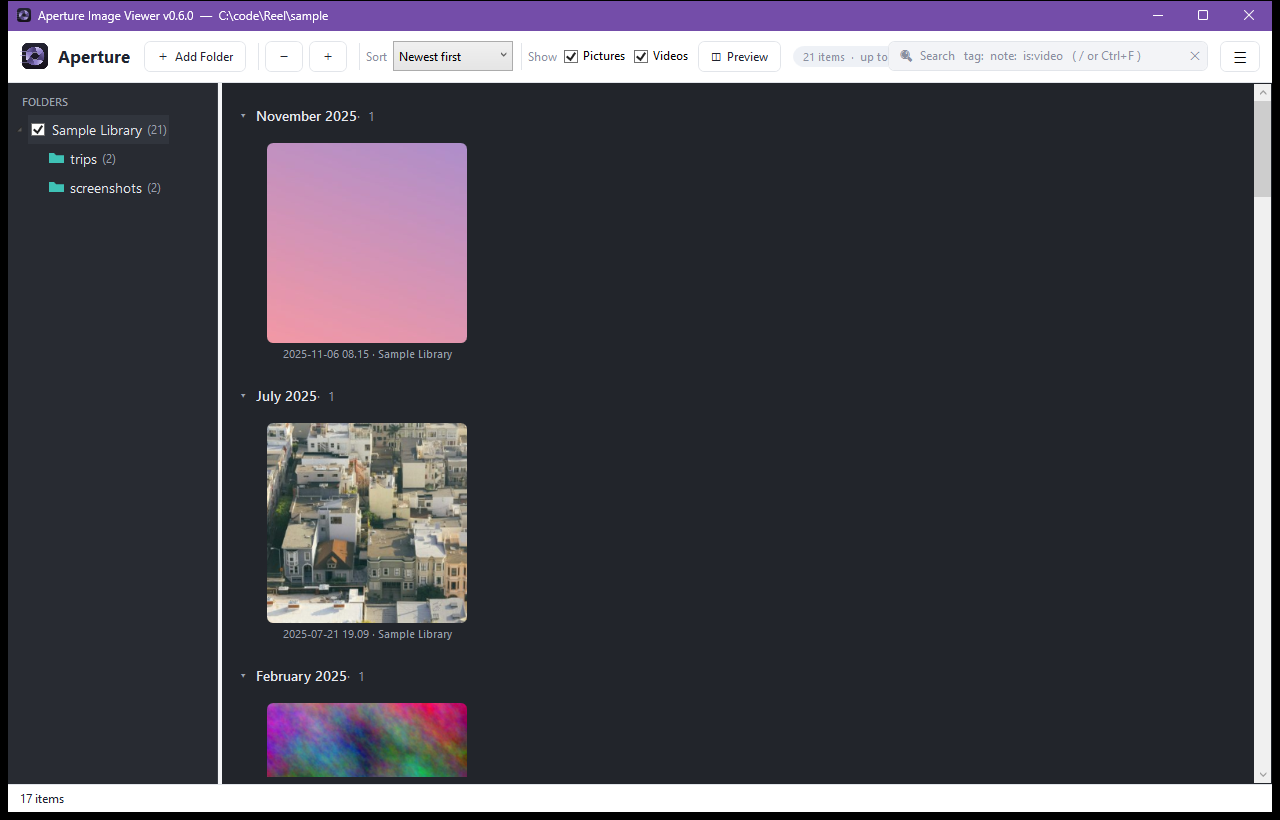
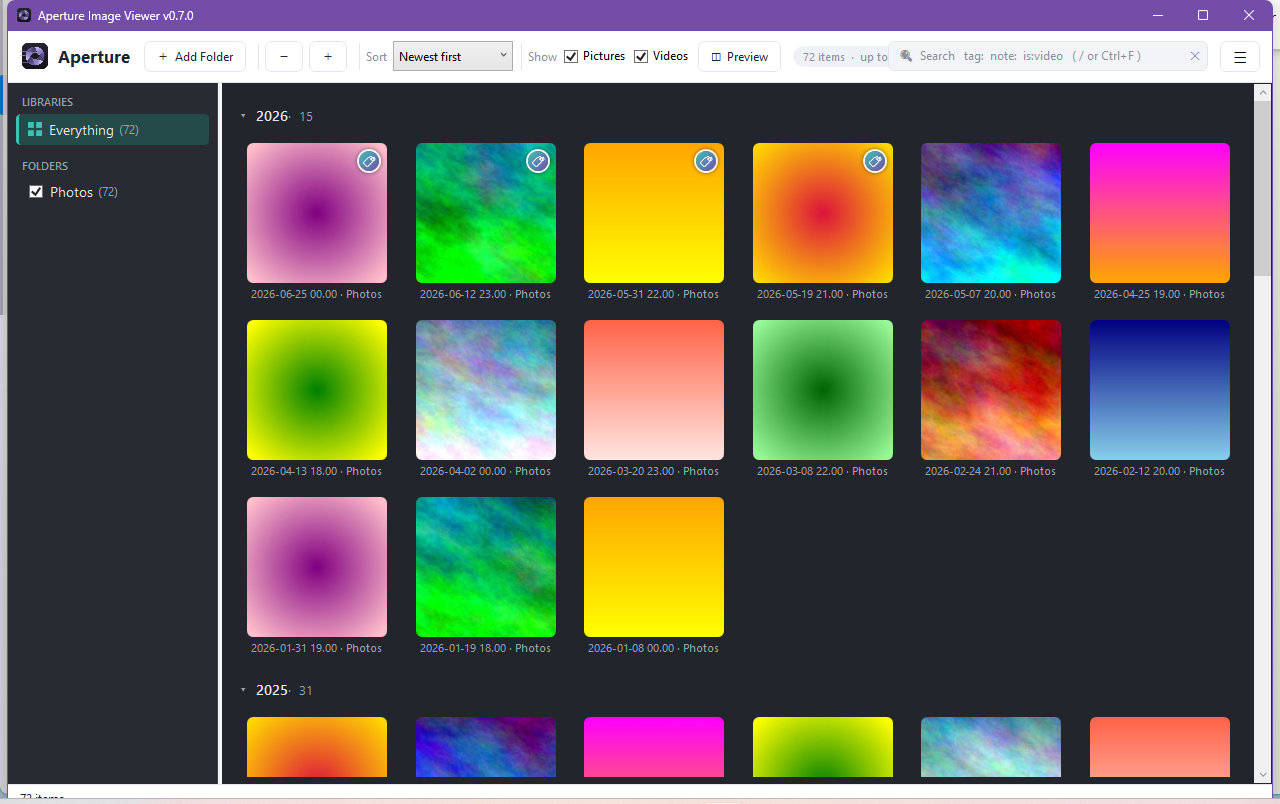
Instant startup: on-demand thumbnail regen, deferred reconcile, grid-first; denser README screenshot
The recent startup work regressed the app's instant-startup feel on a large, partially-
stale cache: the loading spinner sat frozen and tiles were blank for ~15s. Causes and fixes:

- Blank tiles: the src-mtime guard (correctly) withholds stale cached thumbnails, but they
  were only regenerated by the background reconcile in disk-scan order — so the visible
  (newest) tiles healed last. Now a tile whose cached thumb is missing/stale regenerates
  from its source ON DEMAND at display time (LibraryService.GetOrCreateThumbnail +
  ThumbnailStore.Put), so on-screen tiles paint immediately and the cache heals as you look.
  This also produces the correct image for a realigned cache (regenerates from the item's
  own file), so it strengthens the earlier wrong-image fix rather than just blanking.

- Frozen spinner / delay: startup now builds and shows the GRID first (off-thread compute,
  spinner animates), drops the spinner as soon as tiles are up, and builds the folder tree
  afterward — the photos don't wait on the tree.

- Contention: the full 45k reconcile is deferred a couple of seconds so it doesn't starve
  the visible tiles' initial thumbnail loads.

- README screenshot: denser, date-grouped grid (72 tiles across sections) for a better showcase.

Verified in-app: with every cached thumbnail deliberately corrupted to stale, tiles still
render (regenerated on demand) instead of going blank. 90/90 tests (added a regen test).

diff --git a/src/Aperture.Core/Storage/ThumbnailStore.cs b/src/Aperture.Core/Storage/ThumbnailStore.cs
@@ -1,4 +1,5 @@
 using Microsoft.Data.Sqlite;
+using Aperture.Core.Media;
 using Aperture.Core.Models;
 
 namespace Aperture.Core.Storage;
@@ -7,6 +8,44 @@ namespace Aperture.Core.Storage;
 public sealed class ThumbnailStore(ApertureDatabase database)
 {
     private readonly ApertureDatabase _db = database;
+
+    /// <summary>
+    /// Upserts a freshly-generated thumbnail set for one item (used by on-demand regeneration when a
+    /// visible tile's cached thumbnail is missing or stale, so it needn't wait for the background reconcile).
+    /// </summary>
+    public void Put(long itemId, long srcMtimeTicks, ThumbnailSet set)
+    {
+        var now = DateTime.UtcNow.Ticks;
+        using var conn = _db.OpenThumbnails();
+        using var tx = conn.BeginTransaction();
+        using var cmd = conn.CreateCommand();
+        cmd.Transaction = tx;
+        cmd.CommandText = """
+            INSERT INTO thumbs (item_id, size, src_mtime_ticks, width, height, data, bytes, created_ticks, last_used_ticks)
+            VALUES (@item, @size, @src, @w, @h, @data, @bytes, @created, @used)
+            ON CONFLICT(item_id, size) DO UPDATE SET
+                src_mtime_ticks = excluded.src_mtime_ticks, width = excluded.width, height = excluded.height,
+                data = excluded.data, bytes = excluded.bytes, created_ticks = excluded.created_ticks,
+                last_used_ticks = excluded.last_used_ticks;
+            """;
+        var item = cmd.Parameters.Add("@item", SqliteType.Integer);
+        var size = cmd.Parameters.Add("@size", SqliteType.Integer);
+        var src = cmd.Parameters.Add("@src", SqliteType.Integer);
+        var w = cmd.Parameters.Add("@w", SqliteType.Integer);
+        var h = cmd.Parameters.Add("@h", SqliteType.Integer);
+        var data = cmd.Parameters.Add("@data", SqliteType.Blob);
+        var bytes = cmd.Parameters.Add("@bytes", SqliteType.Integer);
+        var created = cmd.Parameters.Add("@created", SqliteType.Integer);
+        var used = cmd.Parameters.Add("@used", SqliteType.Integer);
+        foreach (var (sz, d) in set.Thumbs)
+        {
+            item.Value = itemId; size.Value = (int)sz; src.Value = srcMtimeTicks;
+            w.Value = d.Width; h.Value = d.Height; data.Value = d.Bytes; bytes.Value = d.Bytes.Length;
+            created.Value = now; used.Value = now;
+            cmd.ExecuteNonQuery();
+        }
+        tx.Commit();
+    }
 
     /// <summary>
     /// Returns the encoded JPEG bytes for a thumbnail, or null if not cached. When

diff --git a/src/Aperture.App/ViewModels/MainViewModel.cs b/src/Aperture.App/ViewModels/MainViewModel.cs
@@ -114,9 +114,9 @@ public sealed class MainViewModel : ObservableObject, IDisposable
         if (generation != _buildGeneration)
             return; // a data-change rebuild already superseded startup
 
-        BuildTree();          // needs _allRows; builds the (UI-bound) tree nodes on the UI thread
-        SelectDefaultNode();
-
+        // Build the grid FIRST — it's the content the user came to see. The union read and the
+        // tile/section compute run off the UI thread; only ApplyView touches the UI, so the spinner
+        // animates for most of the wait and the tiles appear as soon as possible.
         var inputs = CaptureBuildInputs();
         ViewBuild build;
         try { build = await Task.Run(() => ComputeView(inputs)); }
@@ -125,7 +125,11 @@ public sealed class MainViewModel : ObservableObject, IDisposable
             return;
 
         ApplyView(build);
-        IsLoadingView = false;
+        IsLoadingView = false; // tiles are up — drop the spinner even though the tree is still to come
+
+        // The folder tree fills in afterward; it doesn't gate seeing the photos.
+        BuildTree();
+        SelectDefaultNode();
     }
 
     private void LoadAnnotations()
@@ -584,7 +588,7 @@ public sealed class MainViewModel : ObservableObject, IDisposable
         var isVideo = tile.IsVideo;
         var itemId = tile.ItemId;
         var mtime = tile.Item.MTimeUtc.Ticks;
-        var image = await Task.Run(() => isVideo ? DecodeThumbnail(itemId, mtime) : ImageLoading.LoadFullImageUpright(path, 2400));
+        var image = await Task.Run(() => isVideo ? DecodeThumbnail(itemId, path, mtime) : ImageLoading.LoadFullImageUpright(path, 2400));
         if (gen == _previewGen && _previewMode != PreviewMode.Off)
             PreviewImage = image;
     }
@@ -796,7 +800,7 @@ public sealed class MainViewModel : ObservableObject, IDisposable
         // Pics: the full-resolution image, EXIF-oriented like the tile/Photos.
         // Videos: the cached frame thumbnail.
         var image = tile.IsVideo
-            ? DecodeThumbnail(tile.ItemId, tile.Item.MTimeUtc.Ticks)
+            ? DecodeThumbnail(tile.ItemId, tile.FullPath, tile.Item.MTimeUtc.Ticks)
             : ImageLoading.LoadFullImageUpright(tile.FullPath);
         if (image is null)
             return;
@@ -1110,7 +1114,7 @@ public sealed class MainViewModel : ObservableObject, IDisposable
     private async void LoadQuickLook(int index, TileVm tile)
     {
         var image = await Task.Run(() => tile.IsVideo
-            ? DecodeThumbnail(tile.ItemId, tile.Item.MTimeUtc.Ticks)
+            ? DecodeThumbnail(tile.ItemId, tile.FullPath, tile.Item.MTimeUtc.Ticks)
             : ImageLoading.LoadFullImageUpright(tile.FullPath, maxLongestEdge: 1600));
 
         // Ignore if the user moved on while we decoded.
@@ -1118,15 +1122,19 @@ public sealed class MainViewModel : ObservableObject, IDisposable
             QuickLookImage = image;
     }
 
-    private System.Windows.Media.Imaging.BitmapSource? DecodeThumbnail(long itemId, long srcMtimeTicks)
+    private System.Windows.Media.Imaging.BitmapSource? DecodeThumbnail(long itemId, string path, long srcMtimeTicks)
     {
-        var bytes = _library.GetThumbnail(itemId, ThumbSize.Large, srcMtimeTicks);
+        var bytes = _library.GetOrCreateThumbnail(itemId, path, ThumbSize.Large, srcMtimeTicks, isVideo: true);
         return bytes is null ? null : ImageLoading.Decode(bytes, 0);
     }
 
     /// <summary>Kick a background reconcile of every root, then watch it. Cached rows are already on screen.</summary>
-    public void StartBackgroundRefresh()
+    public async void StartBackgroundRefresh()
     {
+        // Give the window a moment to paint and the on-screen tiles to load (or regenerate) their
+        // thumbnails before a full reconcile starts contending for disk + CPU. Without this, indexing
+        // tens of thousands of files immediately starves the visible tiles and they sit blank.
+        await Task.Delay(StartupReconcileDelayMs);
         foreach (var rootVm in Roots.ToList())
             _ = IndexRootAsync(rootVm.Model, watchAfter: true);
     }
@@ -1252,6 +1260,9 @@ public sealed class MainViewModel : ObservableObject, IDisposable
     // --- Union / sections / status ------------------------------------------
 
     private const int BuildDebounceMs = 140;
+
+    /// <summary>How long startup waits before the first full reconcile, so visible thumbnails load uncontended.</summary>
+    private const int StartupReconcileDelayMs = 2500;
 
     /// <summary>True while an async rebuild is running — drives the right-pane spinner.</summary>
     public bool IsLoadingView

diff --git a/tests/Aperture.Core.Tests/LibraryServiceTests.cs b/tests/Aperture.Core.Tests/LibraryServiceTests.cs
@@ -1,10 +1,35 @@
 using Aperture.Core.Library;
+using Aperture.Core.Models;
 using Aperture.Core.Tests.Support;
 
 namespace Aperture.Core.Tests;
 
 public class LibraryServiceTests
 {
+    [Fact]
+    public void GetOrCreateThumbnail_RegeneratesWhenCacheIsMissingOrStale()
+    {
+        using var dataDir = new TempDir();
+        using var lib = new TempDir();
+        TestImages.Write(Path.Combine(lib.Path, "p.jpg"), 400, 300);
+
+        using var service = new LibraryService(dataDir.Path);
+        service.IndexRoot(service.AddRoot(lib.Path, "L"));
+        var row = service.GetUnion().Single();
+        var mtime = row.Item.MTimeUtc.Ticks;
+
+        // The guard withholds a thumbnail whose expected source mtime doesn't match the cache…
+        Assert.NotNull(service.GetThumbnail(row.Item.Id, ThumbSize.Large, mtime));
+        Assert.Null(service.GetThumbnail(row.Item.Id, ThumbSize.Large, mtime + 1));
+
+        // …but GetOrCreateThumbnail regenerates it from the source on the spot and re-caches it,
+        // so the just-shown tile paints without waiting for the background reconcile.
+        var bytes = service.GetOrCreateThumbnail(row.Item.Id, row.FullPath, ThumbSize.Large, mtime + 1, isVideo: false);
+        Assert.NotNull(bytes);
+        Assert.True(bytes!.Length > 0);
+        Assert.NotNull(service.GetThumbnail(row.Item.Id, ThumbSize.Large, mtime + 1)); // now cached under the new mtime
+    }
+
     [Fact]
     public void GetUnion_ExcludesUnincludedRoots()
     {

diff --git a/src/Aperture.Core/Library/LibraryService.cs b/src/Aperture.Core/Library/LibraryService.cs
@@ -22,6 +22,7 @@ public sealed class LibraryService : IDisposable
     private readonly AnnotationStore _annotations;
     private readonly Annotations.AnnotationTransfer _transfer;
     private readonly Indexer _indexer;
+    private readonly ThumbnailGenerator _thumbnailGen = new();
     private readonly Dictionary<long, RootWatcher> _watchers = [];
     private readonly Lock _watchersLock = new();
 
@@ -43,7 +44,7 @@ public sealed class LibraryService : IDisposable
         _annotations = new AnnotationStore(_db);
         _annotations.EnsureHyphenated(); // migrate legacy "multi word" tags to "multi-word"
         _transfer = new Annotations.AnnotationTransfer(_annotations, _roots);
-        _indexer = new Indexer(_db, new ThumbnailGenerator(), new MetadataReader());
+        _indexer = new Indexer(_db, _thumbnailGen, new MetadataReader());
         Settings = new SettingsService(dataDir);
     }
 
@@ -80,6 +81,27 @@ public sealed class LibraryService : IDisposable
     /// </summary>
     public byte[]? GetThumbnail(long itemId, ThumbSize size, long? expectedSrcMtimeTicks = null) =>
         _thumbnails.Get(itemId, size, expectedSrcMtimeTicks);
+
+    /// <summary>
+    /// Returns a valid thumbnail for a tile, regenerating it from the source on the spot when the cache
+    /// is missing or stale (src mtime mismatch). This lets a just-shown tile paint immediately instead of
+    /// waiting for the background reconcile to reach it in scan order — key to instant-feeling startup on a
+    /// realigned/partial cache. Returns null only if the source can't be decoded.
+    /// </summary>
+    public byte[]? GetOrCreateThumbnail(long itemId, string path, ThumbSize size, long mtimeTicks, bool isVideo)
+    {
+        var bytes = _thumbnails.Get(itemId, size, mtimeTicks);
+        if (bytes is { Length: > 0 })
+            return bytes;
+
+        if (!File.Exists(path))
+            return null;
+        var set = isVideo ? _thumbnailGen.GenerateVideo(path, ThumbSizes.All) : _thumbnailGen.Generate(path, ThumbSizes.All);
+        if (set is null)
+            return null;
+        _thumbnails.Put(itemId, mtimeTicks, set);
+        return set.Thumbs.TryGetValue(size, out var data) ? data.Bytes : null;
+    }
 
     // --- Annotations (tags + notes) -----------------------------------------
 

diff --git a/src/Aperture.App/Services/ThumbnailService.cs b/src/Aperture.App/Services/ThumbnailService.cs
@@ -26,21 +26,22 @@ public sealed class ThumbnailService(LibraryService library)
     // realigned cache is healed), the stale decoded bitmap is not reused.
     private readonly LruCache<(long ItemId, long SrcMtime), BitmapSource> _cache = new(MaxDecoded);
 
-    public async Task<BitmapSource?> LoadAsync(long itemId, ThumbSize size, long srcMtimeTicks)
+    public async Task<BitmapSource?> LoadAsync(long itemId, string path, bool isVideo, ThumbSize size, long srcMtimeTicks)
     {
         var key = (itemId, srcMtimeTicks);
         if (_cache.TryGet(key, out var cached))
             return cached;
 
-        var bitmap = await Task.Run(() => Decode(itemId, size, srcMtimeTicks)).ConfigureAwait(true);
+        var bitmap = await Task.Run(() => Decode(itemId, path, isVideo, size, srcMtimeTicks)).ConfigureAwait(true);
         if (bitmap is not null)
             _cache.Set(key, bitmap);
         return bitmap;
     }
 
-    private BitmapSource? Decode(long itemId, ThumbSize size, long srcMtimeTicks)
+    private BitmapSource? Decode(long itemId, string path, bool isVideo, ThumbSize size, long srcMtimeTicks)
     {
-        var bytes = _library.GetThumbnail(itemId, size, srcMtimeTicks);
+        // Regenerates on the spot if the cached thumb is missing/stale, so a just-shown tile isn't blank.
+        var bytes = _library.GetOrCreateThumbnail(itemId, path, size, srcMtimeTicks, isVideo);
         if (bytes is null || bytes.Length == 0)
             return null;
 

diff --git a/src/Aperture.App/ViewModels/TileVm.cs b/src/Aperture.App/ViewModels/TileVm.cs
@@ -107,7 +107,7 @@ public sealed class TileVm(LibraryRow row, ThumbnailService thumbnails, string c
 
     private async void BeginLoad()
     {
-        var bitmap = await _thumbnails.LoadAsync(ItemId, ThumbSize.Large, Item.MTimeUtc.Ticks);
+        var bitmap = await _thumbnails.LoadAsync(ItemId, FullPath, IsVideo, ThumbSize.Large, Item.MTimeUtc.Ticks);
         if (bitmap is not null)
             Thumbnail = bitmap;
     }